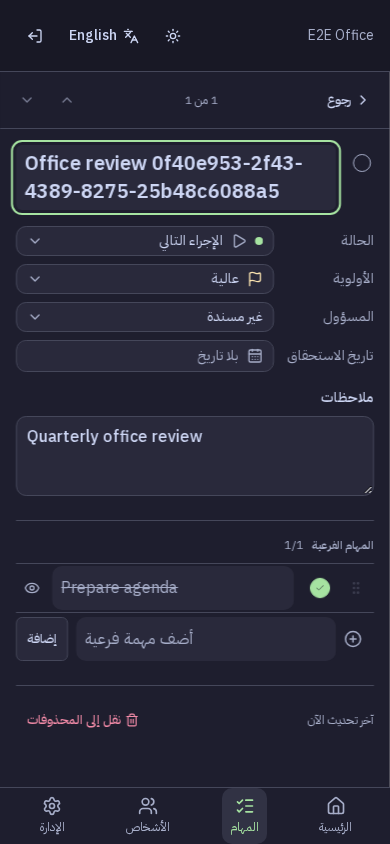
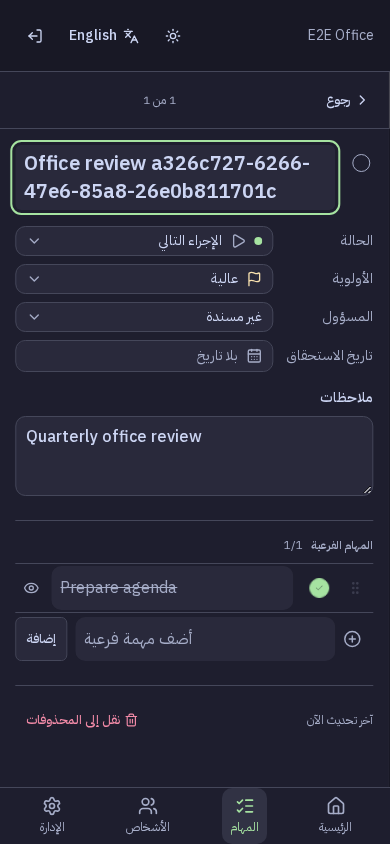
fix(ui): Arabic face for Arabic text in the English view; no panel arrows
The font stack lists the real faces before the size-matched fallbacks that
next/font synthesises, so Arabic glyphs reach IBM Plex Sans Arabic instead of
the Latin fallback. The panel bar drops previous/next; moving between items is
done from the list.

Claude-Session: https://claude.ai/code/session_014g1i8Np87D6CdGoNqyY67b

diff --git a/src/ui/entity/EntityPanel.tsx b/src/ui/entity/EntityPanel.tsx
@@ -1,7 +1,7 @@
 'use client';
 import { useState, useEffect, useRef, type ReactNode, type RefObject } from 'react';
 import { useTranslations } from 'next-intl';
-import { ChevronUp, ChevronDown, ChevronLeft, X } from 'lucide-react';
+import { ChevronLeft, X } from 'lucide-react';
 import { Button } from '@/ui/primitives/button';
 import { ErrorPanel } from '@/ui/layout/ErrorPanel';
 import { SaveStatus } from '@/ui/layout/SaveStatus';
@@ -40,7 +40,6 @@ export function EntityPanel<T extends Entity, P extends object, C>(props: Props<
       <PanelToolbar
         state={c.queue.state}
         neighbors={props.neighbors}
-        move={(direction) => guarded(() => props.move(direction))()}
         close={guarded(props.close)}
       />
       <div ref={root} tabIndex={-1} className="p-4 outline-none lg:p-5">
@@ -139,17 +138,15 @@ function useUnloadGuard(state: SaveState) {
     return () => window.removeEventListener('beforeunload', unload);
   }, [state]);
 }
-// On a phone the bar reads Back · status · previous/next; beside the list it reads
-// previous/next · status · close, so the dismiss control sits where each layout expects it.
+// On a phone the bar reads Back · status; beside the list it reads status · close, so the
+// dismiss control sits where each layout expects it. Moving between items is the list's job.
 function PanelToolbar({
   state,
   neighbors,
-  move,
   close,
 }: {
   state: SaveState;
   neighbors: Neighbors;
-  move: (direction: number) => void;
   close: () => void;
 }) {
   const t = useTranslations('common');
@@ -174,26 +171,6 @@ function PanelToolbar({
         ) : (
           <SaveStatus state={state} />
         )}
-      </div>
-      <div className="flex gap-0.5 lg:order-first">
-        <Button
-          variant="ghost"
-          size="sm"
-          disabled={!neighbors.previous}
-          aria-label={t('previous')}
-          onClick={() => move(-1)}
-        >
-          <ChevronUp className="size-4" />
-        </Button>
-        <Button
-          variant="ghost"
-          size="sm"
-          disabled={!neighbors.next}
-          aria-label={t('next')}
-          onClick={() => move(1)}
-        >
-          <ChevronDown className="size-4" />
-        </Button>
       </div>
     </div>
   );

diff --git a/src/ui/tokens.css b/src/ui/tokens.css
@@ -31,7 +31,7 @@
   --color-scrim: var(--scrim);
   --radius-lg: 0.625rem;
   --radius-xl: 0.875rem;
-  --font-sans: var(--font-inter), var(--font-arabic), sans-serif;
+  --font-sans: 'Inter', 'IBM Plex Sans Arabic', 'Inter Fallback', sans-serif;
 }
 :root {
   --bg: #f5f5f2;
@@ -79,15 +79,19 @@
     font-size: 16px;
     background: var(--bg);
   }
-  /* Both faces are always in the stack: an Arabic title in the English view renders in the
-     Arabic face and a Latin acronym in the Arabic view in Inter (docs/05 § Typography). */
+  /* Both faces are always in the stack and the real faces come before the size-matched
+     fallbacks next/font synthesises (those carry Arabic glyphs and would win otherwise): an
+     Arabic title in the English view renders in the Arabic face and a Latin acronym in the
+     Arabic view in Inter (docs/05 § Typography). */
   body {
     margin: 0;
     color: var(--text);
-    font-family: var(--font-inter), var(--font-arabic), sans-serif;
+    font-family:
+      'Inter', 'IBM Plex Sans Arabic', 'Inter Fallback', 'IBM Plex Sans Arabic Fallback', sans-serif;
   }
   html[dir='rtl'] body {
-    font-family: var(--font-arabic), var(--font-inter), sans-serif;
+    font-family:
+      'IBM Plex Sans Arabic', 'Inter', 'IBM Plex Sans Arabic Fallback', 'Inter Fallback', sans-serif;
   }
   button:not(:disabled),
   a {

diff --git a/e2e/tasks.spec.ts b/e2e/tasks.spec.ts
@@ -282,8 +282,6 @@ for (const locale of ['en', 'ar']) {
     await page.keyboard.press('Escape');
     await expect(page).not.toHaveURL(/sel=/);
     await row.click();
-    await expect(page.getByRole('button', { name: m.common.previous, exact: true })).toBeDisabled();
-    await expect(page.getByRole('button', { name: m.common.next, exact: true })).toBeDisabled();
     await page.getByRole('button', { name: m.common.close, exact: true }).click();
     await expect(row).toBeFocused();
     await page.goto(`/tasks?view=all&priority=urgent&id=${task.id}`);

diff --git a/docs/features/tasks.md b/docs/features/tasks.md
@@ -63,7 +63,7 @@ See `03-data-model.md` § tasks. Invariants:
 
 ## UI
 
-Row: checkbox (complete; shows the checked state as soon as it is pressed and pops with a 200 ms tick animation, none under reduced motion), title (`unicode-bidi: plaintext`, one line on wide lists, two on a phone), priority chip (tinted for urgent and high, quiet for medium and low), status label only when the status is not `next_action` and the task is open, subtask progress, owner avatar (initials), due label (relative, absolute on hover: days overdue, Yesterday, Today, Tomorrow, the weekday within six days, otherwise the date; overdue in the danger colour, today in the accent), link chips. Grouping by band except in completed and trash; Completed and Trash sit under a divider in the rail. Detail: the title is the editable heading (one field, labelled "Task title"), then status, priority, owner and due date as label/value rows (status and priority pickers show a coloured dot or tinted flag with the label and a tick on the current choice, the owner picker gains a search box once more than ten people are assignable, and the due date opens quick picks Today, Tomorrow, End of week, Next week and No date above a Sunday-first month grid), committee, initiative, description (markdown), subtasks as a checklist (toggle and inline title; owner, due date, reorder, make a task and trash revealed on hover or focus, always on touch; inline add row), "Break down with AI", source note chip, Linked section, footer with the owner link, relative "Updated" and Move to trash. Create: title, due, priority, owner, committee, initiative; pre-filled links shown as chips. Mobile: the panel bar reads Back · save state · previous/next; swipe reveals Complete and Delete. Shortcuts: `c` complete, `d` due date, `p` priority.
+Row: checkbox (complete; shows the checked state as soon as it is pressed and pops with a 200 ms tick animation, none under reduced motion), title (`unicode-bidi: plaintext`, one line on wide lists, two on a phone), priority chip (tinted for urgent and high, quiet for medium and low), status label only when the status is not `next_action` and the task is open, subtask progress, owner avatar (initials), due label (relative, absolute on hover: days overdue, Yesterday, Today, Tomorrow, the weekday within six days, otherwise the date; overdue in the danger colour, today in the accent), link chips. Grouping by band except in completed and trash; Completed and Trash sit under a divider in the rail. Detail: the title is the editable heading (one field, labelled "Task title"), then status, priority, owner and due date as label/value rows (status and priority pickers show a coloured dot or tinted flag with the label and a tick on the current choice, the owner picker gains a search box once more than ten people are assignable, and the due date opens quick picks Today, Tomorrow, End of week, Next week and No date above a Sunday-first month grid), committee, initiative, description (markdown), subtasks as a checklist (toggle and inline title; owner, due date, reorder, make a task and trash revealed on hover or focus, always on touch; inline add row), "Break down with AI", source note chip, Linked section, footer with the owner link, relative "Updated" and Move to trash. Create: title, due, priority, owner, committee, initiative; pre-filled links shown as chips. Mobile: the panel bar reads Back · save state; swipe reveals Complete and Delete. Shortcuts: `c` complete, `d` due date, `p` priority.
 
 ## AI
 

diff --git a/docs/features/entity-pages.md b/docs/features/entity-pages.md
@@ -55,7 +55,7 @@ Twelve top-level props is the ceiling (`07-coding-guidelines.md`); related optio
 
 ## Layout
 
-- EP-B07 Desktop (≥ 1024 px): rail 208 px (collapsible, ≥ 1280 px), list, detail 480 px inline; list resizes, never shifts. The list column opens with one sticky bar that carries the page title, the current view and its count (a button into the filter sheet where the rail is hidden), search, Filter, selection mode and the primary Create action; the page description is exposed to assistive technology only. Below 640 px the search group wraps under the title. Rows are 44 px single-line by default; group headers are 28 px; rail items 32 px with a divider before views marked `separated`. Views marked `featured` also show their count in a strip under the bar (tinted by `tone` when the count is above zero); views may carry an `icon` for the rail. While a panel is open the shell sidebar and the rail soften with a light blur, and while the create form is open the list softens too; hovering or focusing an element restores it, colours do not change, and the effect is skipped under reduced motion transitions. The panel bar shows the item's position in the loaded list ("3 of 11") when no save is in flight.
+- EP-B07 Desktop (≥ 1024 px): rail 208 px (collapsible, ≥ 1280 px), list, detail 480 px inline; list resizes, never shifts. The list column opens with one sticky bar that carries the page title, the current view and its count (a button into the filter sheet where the rail is hidden), search, Filter, selection mode and the primary Create action; the page description is exposed to assistive technology only. Below 640 px the search group wraps under the title. Rows are 44 px single-line by default; group headers are 28 px; rail items 32 px with a divider before views marked `separated`. Views marked `featured` also show their count in a strip under the bar (tinted by `tone` when the count is above zero); views may carry an `icon` for the rail. While a panel is open the shell sidebar and the rail soften with a light blur, and while the create form is open the list softens too; hovering or focusing an element restores it, colours do not change, and the effect is skipped under reduced motion transitions. The panel bar shows the item's position in the loaded list ("3 of 11") when no save is in flight; it carries no previous/next controls, moving between items is done from the list.
 - EP-B08 Mobile: views `list` → `detail` → `create`, full screen, slide from the end side (`dir`-aware); rail as a bottom sheet with active-filter count. Back gesture and browser back both go to the previous view.
 - EP-B09 Direction: all animation and column order derive from `dir`.
 
